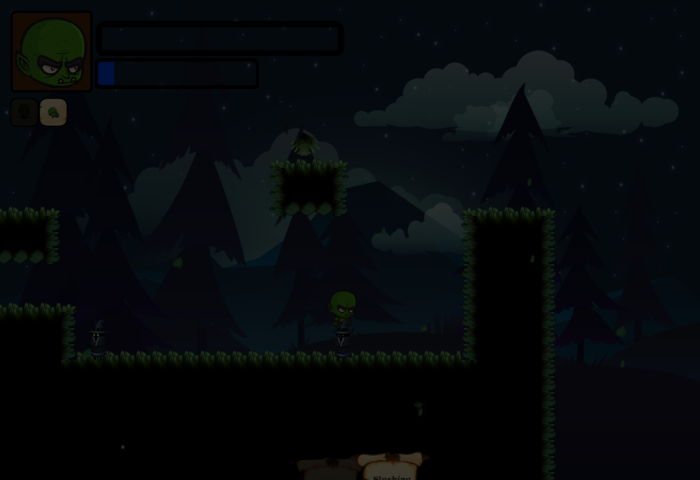
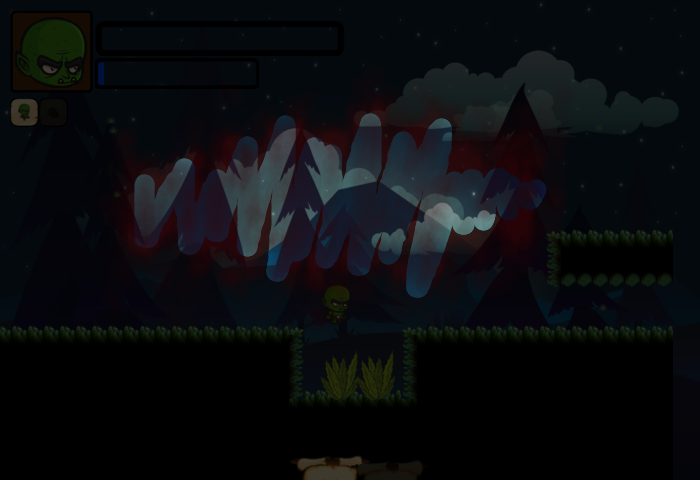
Making some painel image

diff --git a/data/menus/gameOver/__init__.py b/data/menus/gameOver/__init__.py
@@ -6,10 +6,11 @@ class GameOver(object):
     def __init__(self, screen):
         self.screen = screen
         self.back = pygame.image.load("resources/image/menu/gamOver/back.png").convert_alpha()
+        self.title = pygame.image.load("resources/image/menu/gamOver/3.png").convert_alpha()
         self.buttoms = ['Restart','GameMenu']
         self.currentButtom = self.buttoms[0]
-        self.menuControl = 300
-        self.allPosition = [(700/2-208/2, 300), (700/2-208/2, 350)]
+        self.menuControl = 250
+        self.allPosition = [(700/2-208/2, 250), (700/2-208/2, 300)]
         self.timeEfect = 0
         self.count = 0 
 
@@ -28,9 +29,10 @@ class GameOver(object):
             self.allButtom.append(img)
     def gameOverMenuEsc(self):
         self.screen.blit(self.back, (0, 0))
-        if (self.menuControl==300):
+        self.screen.blit(self.title, (700/2-350/2, 170))
+        if (self.menuControl==250):
             self.currentButtom = self.buttoms[0]
-        elif (self.menuControl==350):
+        elif (self.menuControl==300):
             self.currentButtom = self.buttoms[1]
 
         self.displayButtoms()
@@ -41,14 +43,14 @@ class GameOver(object):
         pressed_keys = pygame.key.get_pressed()
         if(pressed_keys[K_DOWN]):
             pygame.time.delay(100)
-            if(self.menuControl==350):
-                self.menuControl = 300
+            if(self.menuControl==300):
+                self.menuControl = 250
             else:
                 self.menuControl += 50
         elif(pressed_keys[K_UP]):
             pygame.time.delay(100)
-            if(self.menuControl==300):
-                self.menuControl = 300
+            if(self.menuControl==250):
+                self.menuControl = 250
             else:
                 self.menuControl -= 50
         
@@ -59,10 +61,10 @@ class GameOver(object):
 
     def gameOverChoise(self, pressed_keys):
         self.count += 1
-        if((pressed_keys[K_RETURN])and(self.menuControl==300)and(self.count >= 5)):
+        if((pressed_keys[K_RETURN])and(self.menuControl==250)and(self.count >= 5)):
             self.count = 0
             return 12
-        elif ((pressed_keys[K_RETURN])and(self.menuControl==350)and(self.count >= 5)):
+        elif ((pressed_keys[K_RETURN])and(self.menuControl==300)and(self.count >= 5)):
             self.count = 0
             return 3
         return 11

diff --git a/data/menus/__init__.py b/data/menus/__init__.py
@@ -69,6 +69,8 @@ class Menus(object):
             # self.player = Player(self.screen, self.nivel, self.skills,self.lastPassPoint)
         elif(self.painelState == 3):
             self.painelState, self.nivel, self.lastPassPoint, self.qtlife = self.userMenu.movingInUserMenu(self.user)
+            self.updatingUserData()
+            self.getUpdateUserData()
             self.gamplay = GamePlay(self.screen, self.nivel, self.lastPassPoint, self.qtlife, self.pygameEvent)
             self.skills = Skills(self.screen, self.nivel)
             self.map = Map(self.screen, self.nivel)
@@ -131,6 +133,7 @@ class Menus(object):
                 file.write(str(self.nivel)+' '+str(500)+' '+str(200)+' '+str(240))
             file.close()
             os.chdir('../..')
+            self.complet = not self.complet
 
             self.getUpdateUserData()
             # restarting the game whit new data

diff --git a/data/gameplay/__init__.py b/data/gameplay/__init__.py
@@ -70,7 +70,7 @@ class GamePlay(object):
         if(painelState==11):
             os.chdir('resources/image/menu/gamOver')
             pygame.image.save(self.screen, "back.png")
-            # pygame.time.delay(100)
+            pygame.time.delay(10)
             os.chdir('../../../..')
             surf = pygame.Surface((700, 480))
             img = pygame.image.load("resources/image/menu/gamOver/back.png").convert_alpha()
@@ -84,7 +84,7 @@ class GamePlay(object):
         elif(painelState==13):
             os.chdir('resources/image/menu/levelComplet')
             pygame.image.save(self.screen, "back.png")
-            # pygame.time.delay(100)
+            pygame.time.delay(10)
             os.chdir('../../../..')
             surf = pygame.Surface((700, 480))
             img = pygame.image.load("resources/image/menu/levelComplet/back.png").convert_alpha()

diff --git a/data/menus/levelComplet/__init__.py b/data/menus/levelComplet/__init__.py
@@ -7,6 +7,7 @@ class LevelComplet(object):
     def __init__(self, screen):
         self.screen = screen
         self.back = pygame.image.load("resources/image/menu/levelComplet/back.png").convert_alpha()
+        self.title = pygame.image.load("resources/image/menu/levelComplet/1.png").convert_alpha()
         self.buttoms = ['NextLevel','GameMenu']
         self.currentButtom = self.buttoms[0]
         self.menuControl = 300
@@ -31,6 +32,7 @@ class LevelComplet(object):
 
     def nextLevelMenuEsc(self):
         self.screen.blit(self.back, (0, 0))
+        self.screen.blit(self.title, (700/2-350/2, 170))
         if (self.menuControl==300):
             self.currentButtom = self.buttoms[0]
         elif (self.menuControl==350):
